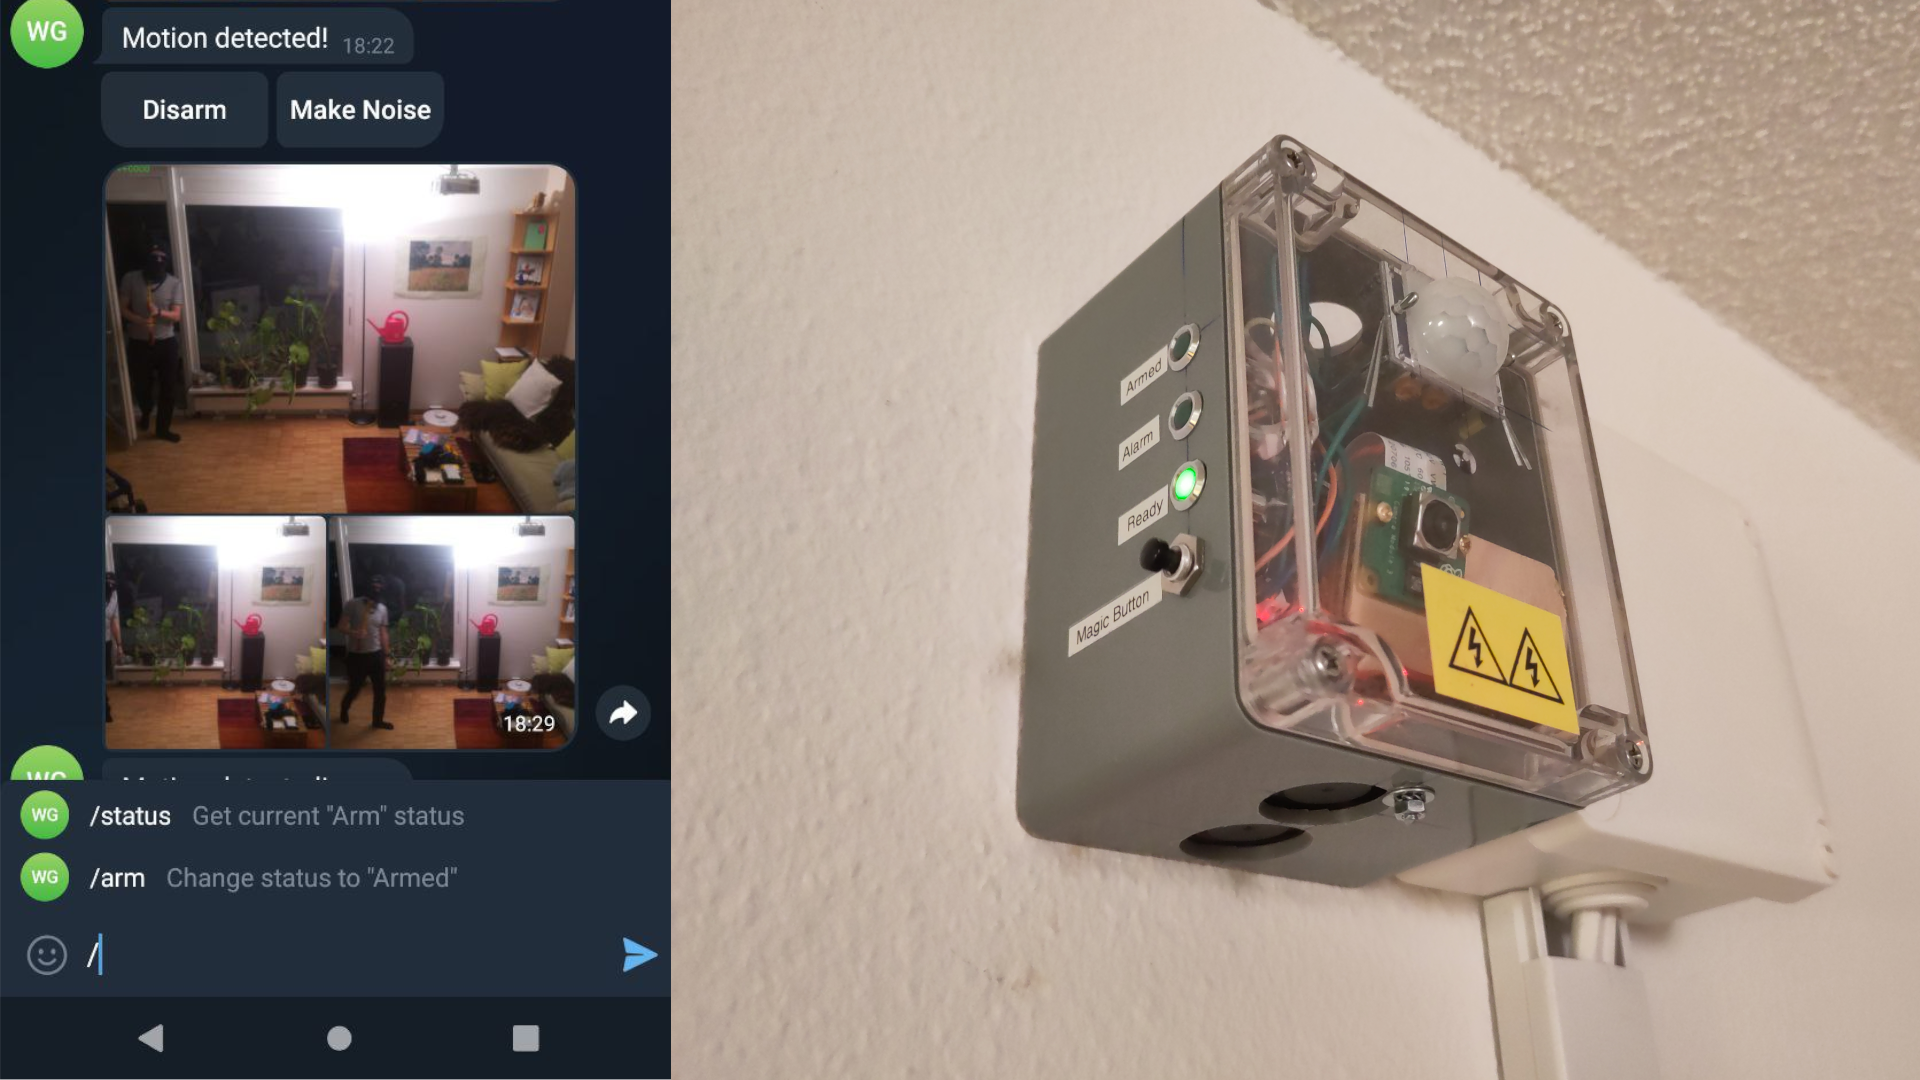
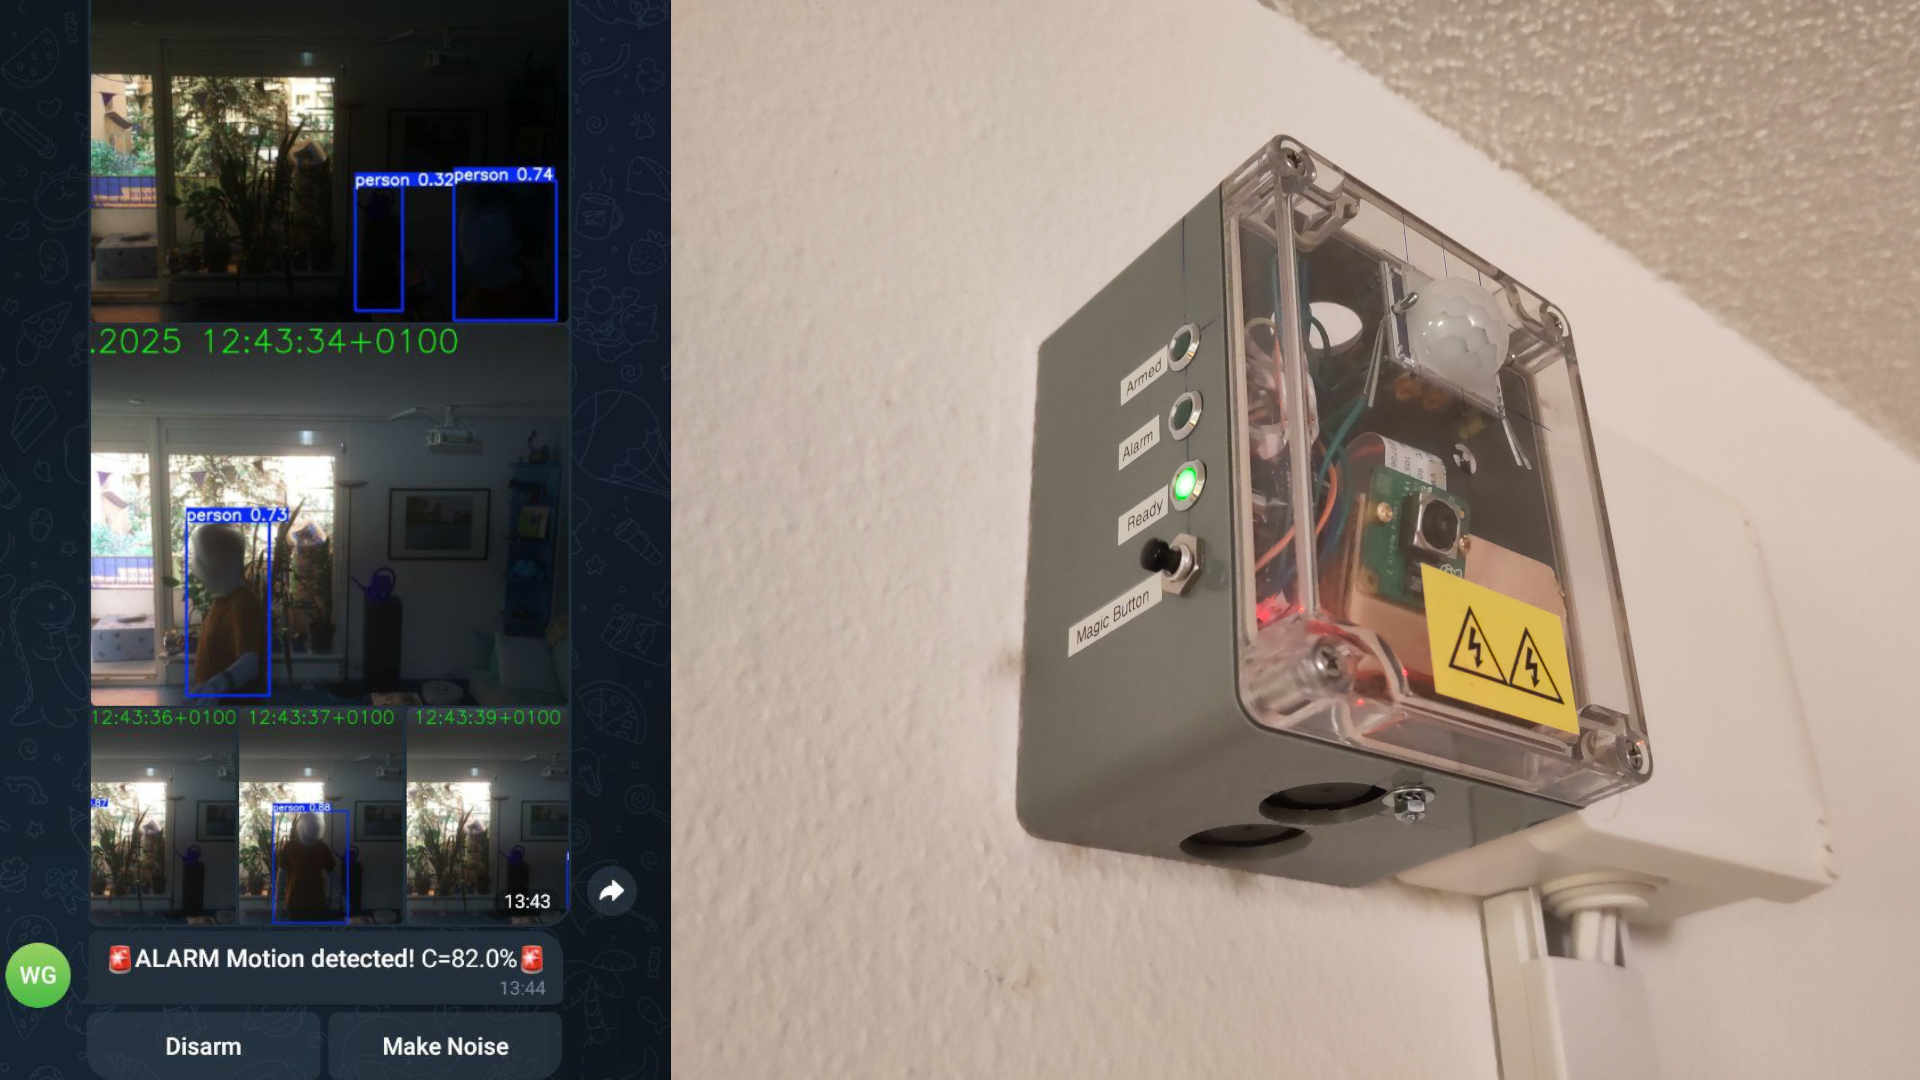
Prepare for merge

Changed region(s): [[0.0, 0.0, 0.375, 1.0]]

diff --git a/raspi-alarm/main.py b/raspi-alarm/main.py
@@ -96,9 +96,11 @@ def motion_detected(gpio, level, tick):
             for frame in cam.frames(wait_between_captures_sec=1.5, n_frames=CAPTURE_N_IMAGES, add_timestamp=True):
                 result = yolo_engine.detect_person(frame)
                 images.append(result.annotated_frame)
-                if result.max_confidence_score > PERSON_MIN_CONFIDENCE:
+                _max_confidence = result.max_confidence_score
+                if _max_confidence > PERSON_MIN_CONFIDENCE:
                     person_detected = True
-                    confidence_score = result.max_confidence_score
+                    if confidence_score < _max_confidence:
+                        confidence_score = _max_confidence
 
         if person_detected:
             image_paths = LinuxCamera.save_images(images, prefix="raspi", destination_folder="../captures")

diff --git a/raspi-alarm/analyze/yolo.py b/raspi-alarm/analyze/yolo.py
@@ -16,7 +16,7 @@ class PersonDetectionResult:
     @property
     def max_confidence_score(self) -> float:
         if len(self.confidence_scores) > 0:
-            return max(self.confidence_scores)
+            return float(max(self.confidence_scores))
         return 0.0
 
 
@@ -25,6 +25,10 @@ class Yolo11Engine:
 
     @classmethod
     def detect_person(cls, frame: ndarray) -> PersonDetectionResult:
+        """
+        Detect a person in a single frame
+        :param frame: ndarray
+        """
         results = cls.model.predict(source=frame, classes=[0], verbose=False)
         _r = results[0]
         return PersonDetectionResult(

diff --git a/Readme.md b/Readme.md
@@ -1,18 +1,19 @@
 # Raspberry PI Alarm
 
 Yet another Raspberry PI alarm system. It monitors an area using a passive infrared sensor and if motion is detected,
-the camara captures 4 pictures which are then sent to a configurable Telegram group or user.
-Moreover, the system's main functions are controlled using a Telegram bot. In order to further bring down the number of
-_ghosts_ (aka false positives), SSIM is used to measure the similarity of the captured images and notification is inhibited
-if not meeting the configurable threshold value.
+the camara captures five pictures which are then sent to a configurable Telegram group or user.
+Moreover, the system's main functions are controlled using a Telegram bot. To further bring down the number of
+_ghosts_ (aka false positives), [YoloV11n](https://docs.ultralytics.com/models/yolo11/) is used to check for persons in the captured images
 
 ![overview.png](img/overview.png)
 
 ## Tech stack
 
 The main program builds upon Python's `asyncIO` library and is using [aiogram3](https://aiogram.dev/) to interact with
-Telegram, [picamer2](https://github.com/raspberrypi/picamera2) to control the camera and finally [pigpio](https://abyz.me.uk/rpi/pigpio/index.html) for interfacing
-with the GPIO.
+Telegram, [Picamera2](https://github.com/raspberrypi/picamera2) to control the camera and
+finally [pigpio](https://abyz.me.uk/rpi/pigpio/index.html) for interfacing
+with the GPIO. For development purposes, there is also a more generic [LinuxCamera](raspi-alarm/camera/linux_camera.py)
+which allows development on a "normal" linux machine.
 
 ## Used hardware
 
@@ -28,7 +29,7 @@ with the GPIO.
 ## Setup
 
 - Get your telegram bot token by talking with [@botfather](https://t.me/botfather)
-- Create group, [get group ID](https://stackoverflow.com/a/32572159)
+- Create a telegram group, [get group ID](https://stackoverflow.com/a/32572159)
 - Add your bot to this group
 - Clone this repository and install requirements:
   ```bash
@@ -61,9 +62,9 @@ with the GPIO.
 
 ![wiring_diagram.png](img/wiring_diagram.png)
 
-
 ## Closing words
 
-This software was written with the best of intentions and I take no responsibility for any potential damage resulting from its use. 
+This software was written with the best of intentions, and I take no responsibility for any potential damage resulting
+from its use.
 Feel free to study, use and adapt. 
 
